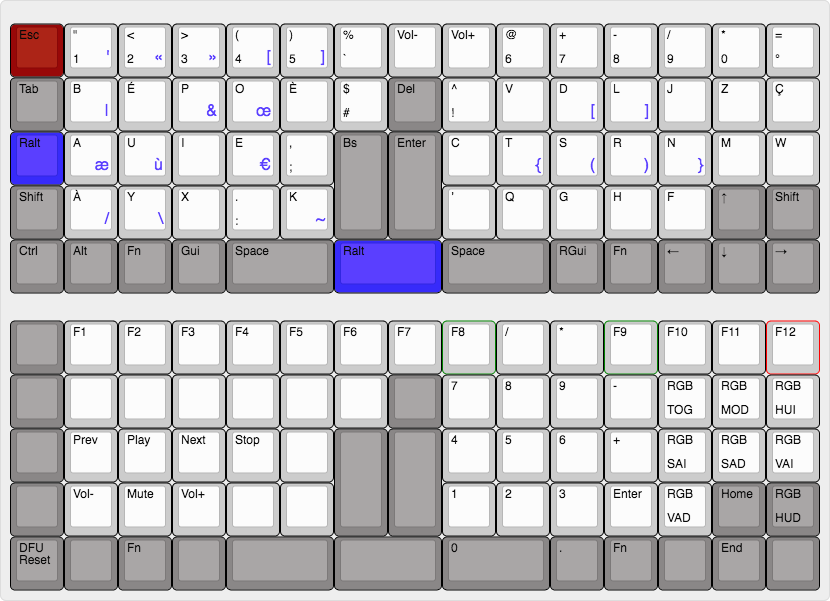
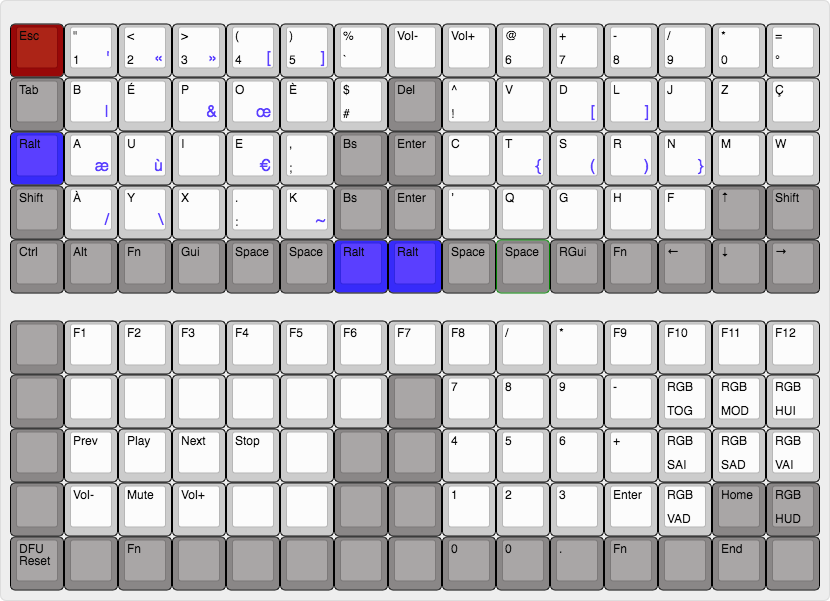
Changement dans les touches, suppression des 2U

diff --git a/layout/c4software_bepo/qmk_layout/keymap.c b/layout/c4software_bepo/qmk_layout/keymap.c
@@ -28,11 +28,11 @@ const uint16_t PROGMEM keymaps[][MATRIX_ROWS][MATRIX_COLS] = {
  * |--------+--------+--------+--------+--------+--------+--------+--------+--------+--------+--------+--------+--------+-----------------|
  * | TAB    | B      | E_ACUT | P      | O      | $      | E_GRAV | DEL    | E_CIRC | V      | D      | L      | J      | Z      | C_CEDIL|
  * |--------+--------+--------+--------+--------+--------+--------+--------+--------+--------+--------+--------+-----------------+--------|
- * | RALT   | A      | U      | I      | E      | ,      |        |        | C      | T      | S      | R      | N      | M      | W      |
- * |--------+--------+--------+--------+--------+--------+ BACKSP + ENTER  +--------+--------+--------+--------------------------+--------|
- * | LSHIFT | A_GRAV | Y      | X      | .      | K      |        |        | ’      | Q      | G      | H      | F      | UP     | RSHIFT |
+ * | RALT   | A      | U      | I      | E      | ,      | BACKSP | ENTER  | C      | T      | S      | R      | N      | M      | W      |
+ * |--------+--------+--------+--------+--------+--------+--------+--------+--------+--------+--------+--------------------------+--------|
+ * | LSHIFT | A_GRAV | Y      | X      | .      | K      | BACKSP | ENTER  | ’      | Q      | G      | H      | F      | UP     | RSHIFT |
  * |--------+--------+--------+--------+--------+-----------------+--------+--------+--------+--------+-----------------+--------+--------|
- * | LALT   | LCTRL  | FN     | LGUI   |        SPACE    |       RALT      |      SPACE      | RGUI   | FN     | LEFT   | DOWN   | RIGHT  |
+ * | LALT   | LCTRL  | FN     | LGUI   | SPACE  | SPACE  | RALT   | RALT   | SPACE  | SPACE  | RGUI   | FN     | LEFT   | DOWN   | RIGHT  |
  * '--------------------------------------------------------------------------------------------------------------------------------------'
  */
 
@@ -40,8 +40,8 @@ const uint16_t PROGMEM keymaps[][MATRIX_ROWS][MATRIX_COLS] = {
   { KC_ESC,  BP_DQOT,    BP_LGIL,    BP_RGIL, BP_LPRN, BP_RPRN,    BP_PERCENT, KC_VOLD, KC_VOLU, BP_AT,   BP_PLUS, BP_MINUS, BP_SLASH, BP_ASTR, BP_EQUAL },
   { KC_TAB,  BP_B,       BP_E_ACUTE, BP_P,    BP_O,    BP_DOLLAR,  BP_E_GRAVE, KC_DEL,  BP_DCRC, BP_V,    BP_D,    BP_L,     BP_J,     BP_Z,    BP_CCED  },
   { KC_RALT, BP_A,       BP_U,       BP_I,    BP_E,    BP_COMMA,   KC_BSPC,    KC_ENT,  BP_C,    BP_T,    BP_S,    BP_R,     BP_N,     BP_M,    BP_W     },
-  { KC_LSFT, BP_A_GRAVE, BP_Y,       BP_X,    BP_DOT,  BP_K,       KC_TRNS,    KC_TRNS, BP_APOS, BP_Q,    BP_G,    BP_H,     BP_F,     KC_UP,   KC_RSFT  },
-  { KC_LALT, KC_LCTL,    MO(_FN),    KC_LGUI, KC_TRNS, KC_SPC,     KC_TRNS,    KC_RALT, KC_SPC,  KC_TRNS, KC_RGUI, MO(_FN),  KC_LEFT,  KC_DOWN, KC_RGHT  },
+  { KC_LSFT, BP_A_GRAVE, BP_Y,       BP_X,    BP_DOT,  BP_K,       KC_BSPC,    KC_ENT,  BP_APOS, BP_Q,    BP_G,    BP_H,     BP_F,     KC_UP,   KC_RSFT  },
+  { KC_LALT, KC_LCTL,    MO(_FN),    KC_LGUI, KC_SPC,  KC_SPC,     KC_RALT,    KC_RALT, KC_SPC,  KC_SPC,  KC_RGUI, MO(_FN),  KC_LEFT,  KC_DOWN, KC_RGHT  },
  },
 
 /* FUNCTION
@@ -51,10 +51,10 @@ const uint16_t PROGMEM keymaps[][MATRIX_ROWS][MATRIX_COLS] = {
  * |        |        |        |        |        |        |        |        | P7     | P8     | P9     | -      | RGB_TOG| RGB_MOD| RGB_HUI|
  * |--------+--------+--------+--------+--------+--------+--------+--------+--------+--------+--------+--------+--------+--------+--------|
  * |        | PREV   | PLAY   | NEXT   | STOP   |        |        |        | P4     | P5     | P6     | +      | RGB_SAI| RGB_SAD| RGB_VAI|
- * |--------+--------+--------+--------+--------+--------+        +        +--------+--------+--------+--------+--------+--------+--------|
+ * |--------+--------+--------+--------+--------+--------+--------+--------+--------+--------+--------+--------+--------+--------+--------|
  * |        | VOL-   | MUTE   | VOL+   |        |        |        |        | P1     | P2     | P3     | ENT    | RGB_VAD| Home   | RGB_HUD|
  * |--------+--------+--------+--------+--------+--------+--------+--------+--------+--------+--------+--------+--------+--------+--------|
- * | RESET  |        | FN     |        |                 |                 | P0              | .      | FN     |        | End    |        |
+ * | RESET  |        | FN     |        |        |        |        |        | P0     | P0     | .      | FN     |        | End    |        |
  * '--------------------------------------------------------------------------------------------------------------------------------------'
  */
  
@@ -63,7 +63,7 @@ const uint16_t PROGMEM keymaps[][MATRIX_ROWS][MATRIX_COLS] = {
   { KC_TRNS, KC_TRNS, KC_TRNS, KC_TRNS, KC_TRNS, KC_TRNS, KC_TRNS, KC_TRNS, KC_P7,   KC_P8,   KC_P9,   KC_MINS, RGB_TOG, RGB_MOD, RGB_HUI },
   { KC_TRNS, KC_MPRV, KC_MPLY, KC_MNXT, KC_MSTP, KC_TRNS, KC_TRNS, KC_TRNS, KC_P4,   KC_P5,   KC_P6,   KC_PLUS, RGB_SAI, RGB_SAD, RGB_VAI },
   { KC_TRNS, KC_VOLD, KC_MUTE, KC_VOLU, KC_APP,  KC_TRNS, KC_TRNS, KC_TRNS, KC_P1,   KC_P2,   KC_P3,   KC_ENT,  RGB_VAD, KC_HOME, RGB_HUD },
-  { RESET,   KC_TRNS, MO(_FN), KC_TRNS, KC_TRNS, KC_TRNS, KC_TRNS, KC_TRNS, KC_KP_0, KC_TRNS, KC_PDOT, MO(_FN), KC_TRNS, KC_END,  KC_TRNS },
+  { RESET,   KC_TRNS, MO(_FN), KC_TRNS, KC_TRNS, KC_TRNS, KC_TRNS, KC_TRNS, KC_KP_0, KC_KP_0, KC_PDOT, MO(_FN), KC_TRNS, KC_END,  KC_TRNS },
  }
 };
 
